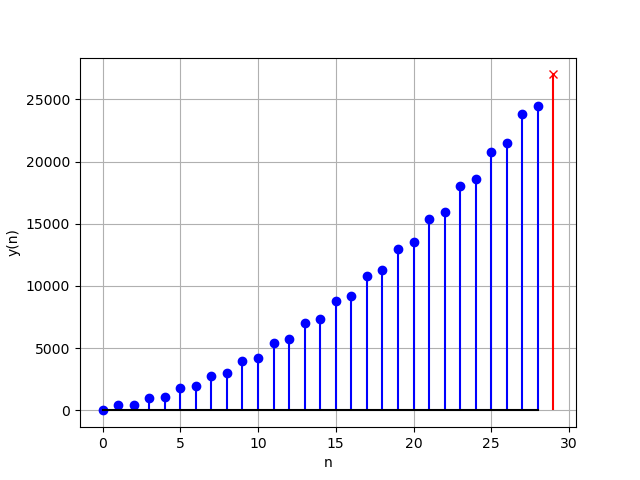
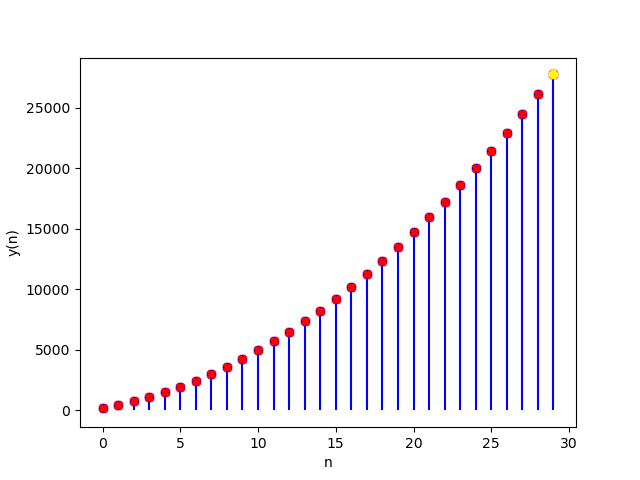
ninth_upload

diff --git a/assign10_5_3_15/codes/graph.c b/assign10_5_3_15/codes/graph.c
@@ -1,44 +1,26 @@
 #include <stdio.h>
 
-void generate_sequence_recursive(int x0, int d, int n, int current, FILE *fp) {
-    if (current >= n) {
-        fclose(fp);
-        return;
+double calculateY(int n) {
+    if (n >= 0) {
+        return ((n + 1)) * (200 + n * 25);
+    } 
+    else {
+        return 0.0;
     }
-
-    // Calculate the value at position current using the arithmetic sequence formula
-    // y(current) = ((current + 1) / 2) * (2 * x0 + (current - 1) * d)
-    int point = ((current + 1) / 2) * (2 * x0 + (current - 1) * d);
-
-    if (point > 27750) {
-        fprintf(fp, "%d *\n", point);
-    } else {
-        fprintf(fp, "%d\n", point);
-    }
-
-    generate_sequence_recursive(x0, d, n, current + 1, fp);
 }
 
-void generate_sequence(int x0, int d, int n) {
-    FILE *fp;
-    fp = fopen("sequence_points.txt", "w");
-
-    if (fp == NULL) {
+ int main() {
+     FILE *file = fopen("output.txt", "w");
+     if (file == NULL) {
         printf("Error opening file.\n");
-        return;
+        return 1;
     }
-
-    generate_sequence_recursive(x0, d, n, 0, fp);
-
-    printf("Sequence points generated and saved in 'sequence_points.txt'\n");
-}
-
-int main() {
-    int x0 = 200;  // initial value
-    int d = 50;    // common difference
-    int n = 30;    // number of terms
-
-    generate_sequence(x0, d, n);
-
-    return 0;
+    fprintf(file, "n\t\ty(n)\n");
+    for (int n = 0; n <= 29; ++n) {
+        double result = calculateY(n);
+        fprintf(file, "%d\t\t%.6f\n", n, result);
+    }
+       fclose(file);
+       printf("Data written to output.txt successfully.\n");
+       return 0;
 }

diff --git a/assign10_5_3_15/codes/graph.py b/assign10_5_3_15/codes/graph.py
@@ -1,13 +1,34 @@
 import matplotlib.pyplot as plt
-with open("sequence_points.txt", 'r') as file:
-    sequence = [int(line.strip()) for line in file]
-n_values = range(0, len(sequence))
 
-# Create stem plot with blue markers for most points
-plt.stem(n_values[:-1], sequence[:-1], markerfmt='bo', linefmt='b-', basefmt='k-')
-# Plot the last point with a red cross marker
-plt.stem(n_values[-1:], sequence[-1:], markerfmt='rx', linefmt='r-', basefmt='k-')
-plt.xlabel("n")
-plt.ylabel("y(n)")
-plt.grid(True)
+# Read data from output.txt
+x_stem = []
+y_stem = []
+with open("output.txt", "r") as file:
+    next(file)  # skip header
+    for line in file:
+        n, y = map(float, line.strip().split())
+        x_stem.append(int(n))
+        y_stem.append(y)
+
+# Read data from result_terms.txt
+y_scatter = []
+with open("result_terms.txt", "r") as file:
+    for line in file:
+        y_scatter.append(int(line.strip()))
+
+# Plot stem plot
+plt.stem(x_stem, y_stem, linefmt='b-', markerfmt='bo', basefmt=' ')
+
+# Plot scatter plot
+plt.scatter(range(len(y_scatter)), y_scatter, color='r', marker='X', zorder=5)  # zorder for bringing it to the front
+
+# Highlight y(n) = 27750 with yellow color
+highlight_index = y_stem.index(27750)
+plt.scatter([highlight_index], [27750], color='yellow', zorder=6)  # zorder for bringing it to the front
+
+# Add labels and title
+plt.xlabel('n')
+plt.ylabel('y(n)')
+
+# Show plot
 plt.savefig("graph.png")

diff --git a/assign10_5_3_15/codes/conv.c b/assign10_5_3_15/codes/conv.c
@@ -1,0 +1,47 @@
+#include <stdio.h>
+
+void convolution(const int *array1, int len1, const int *array2, int len2, int *result) {
+    int lenResult = len1 + len2 - 1;
+    for (int i = 0; i < lenResult; i++) {
+        result[i] = 0;
+    }
+    for (int i = 0; i < len1; i++) {
+        for (int j = 0; j < len2; j++) {
+            result[i + j] += array1[i] * array2[j];
+        }
+    }
+}
+
+void sum_of_ap(int a, int d, int N) {
+
+    int x[N];
+    for (int i = 0; i < N; i++) {
+        x[i] = a + i * d;
+    }
+
+    int u[N];
+    for (int i = 0; i < N; i++) {
+        u[i] = 1;
+    }
+ 
+    int result[N + N - 1];
+    convolution(x, N, u, N, result);
+    FILE *file = fopen("result_terms.txt", "w");
+    if (file == NULL) {
+        printf("Error opening file.\n");
+    }
+    for (int i = 0; i < N ; i++) {
+        fprintf(file, "%d\n", result[i]);
+    }
+    fclose(file);
+}
+
+int main() {
+    int a = 200;  // First term of the arithmetic progression
+    int d = 50;  // Common difference of the arithmetic progression
+    int N = 30; // Number of terms to sum
+
+    // Computing the sum of the first N terms of the AP
+    sum_of_ap(a, d, N);
+    return 0;
+}

diff --git a/assign10_5_3_15/assign10_5_3_15.tex b/assign10_5_3_15/assign10_5_3_15.tex
@@ -65,7 +65,7 @@
 \begin{figure}[h]
     \centering
     \includegraphics[width=1.1\linewidth]{figs/graph.png}
-    \caption{Stem Plot of y(n)}
+    \caption{Combination of scatter plot and stem plot}
     \label{stemplot1}
 \end{figure}\\
 From equation(\ref{eq:apz})
